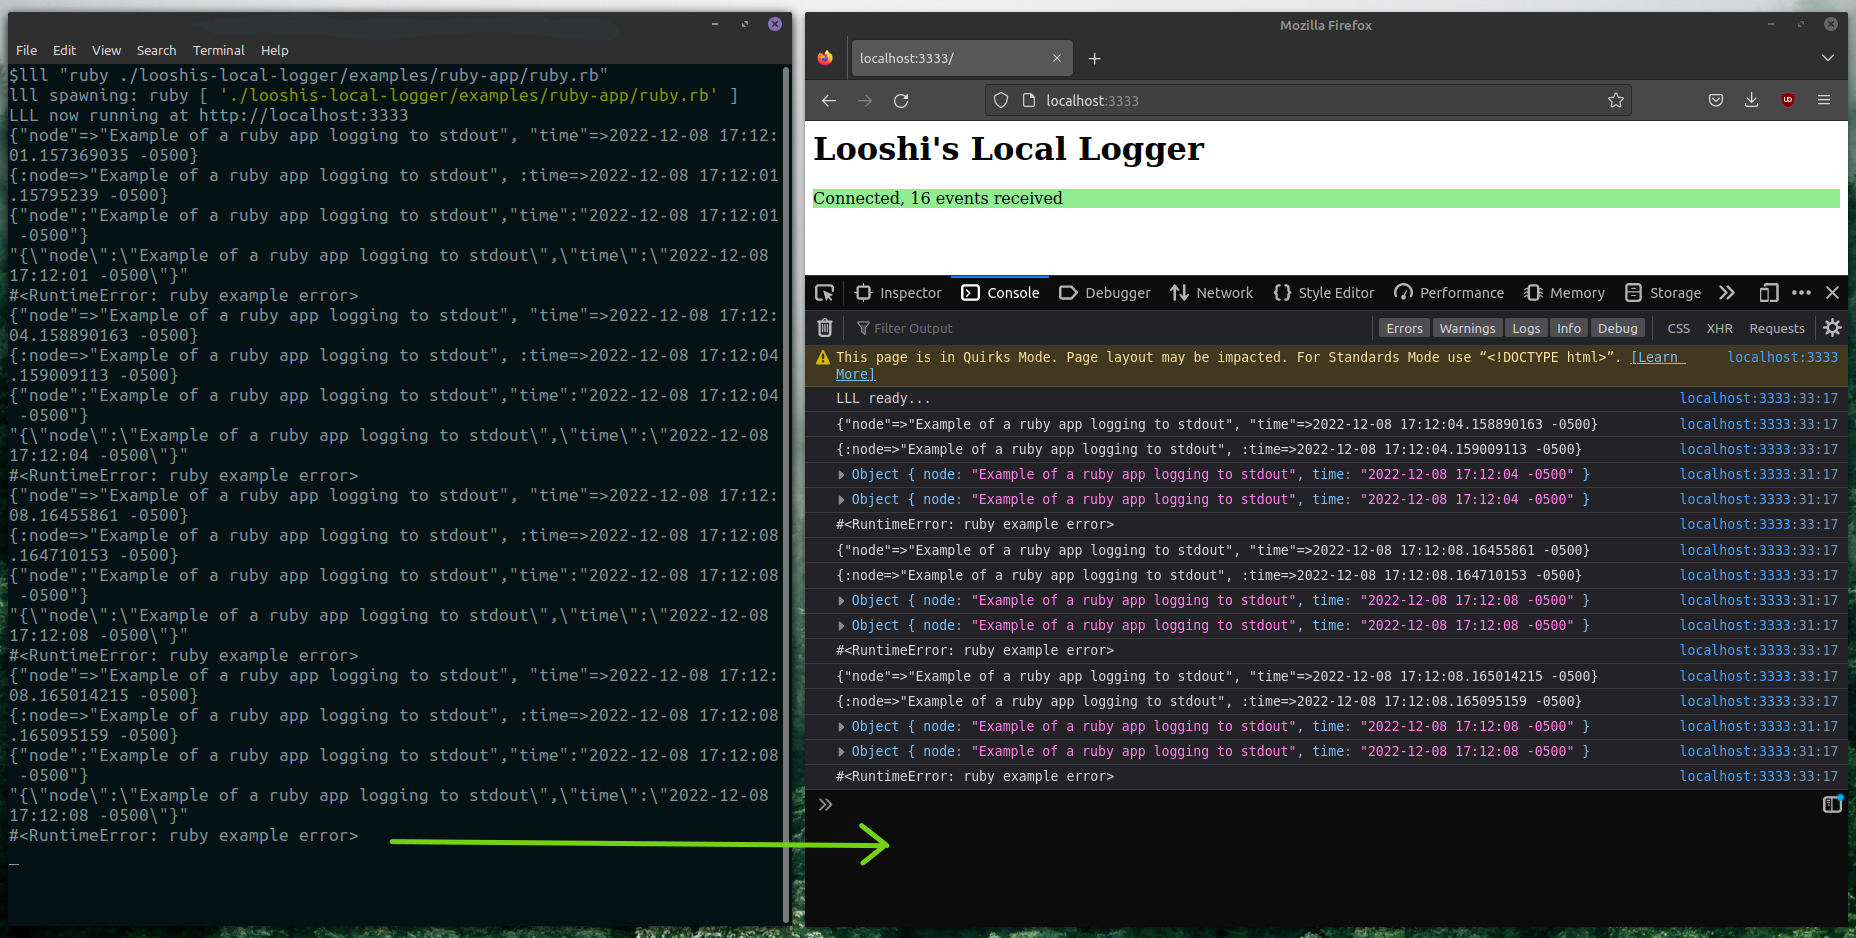
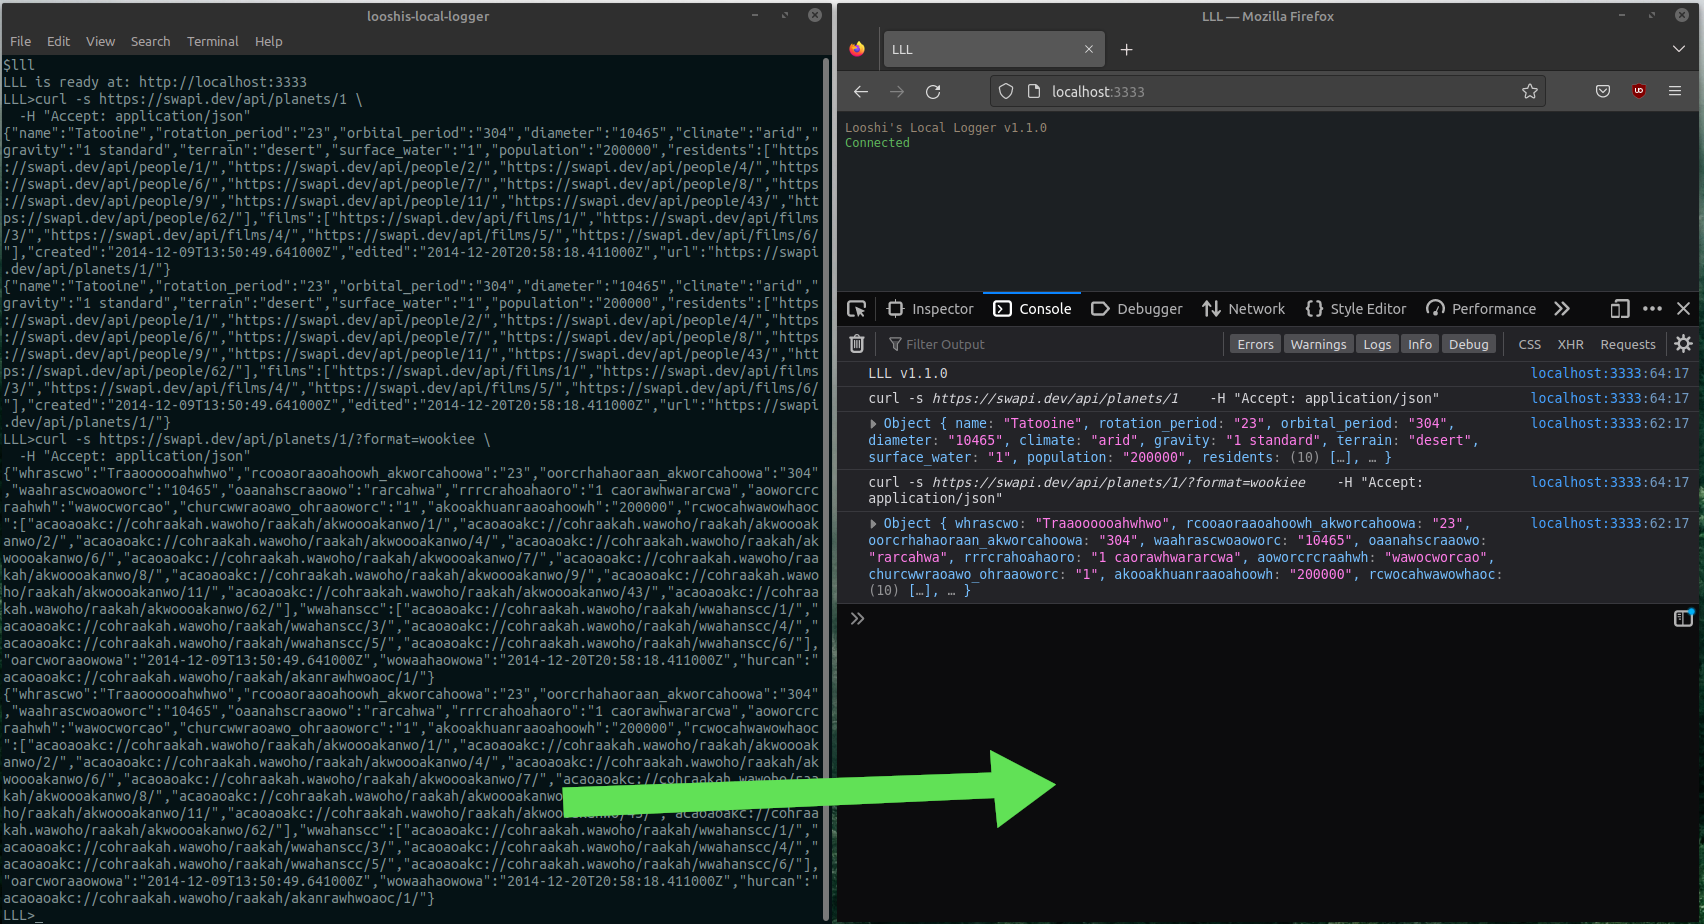
1.1.0 new page style (#2)

diff --git a/src/client.html b/src/client.html
@@ -1,30 +1,59 @@
+<!DOCTYPE html>
 <html>
 
 <head>
   <title>LLL</title>
 </head>
+<style>
+  body {
+    background: #1c2023;
+    font-family: monospace, Arial, Helvetica, sans-serif;
+    font-size: 12px;
+  }
 
-<body style="background: #1c2023; color: #bfb5a9; font-family: Arial, Helvetica, sans-serif;margin:0;">
-  <p id="status"></p>
+  p {
+    margin: 0;
+  }
+
+  a,
+  a:visited,
+  a:active {
+    color: #988874;
+    text-decoration: none;
+  }
+
+  a:hover {
+    color: white;
+  }
+
+</style>
+
+<body>
+  <header>
+    <p>
+      <a href="https://github.com/looshi/looshis-local-logger" referrerpolicy="origin" target="_blank">
+        Looshi's Local Logger v1.1.0
+      </a>
+    </p>
+    <p id="status"></p>
+  </header>
 
   <script>
     const status = document.getElementById('status');
     const es = new EventSource('http://localhost:{{port}}/events');
-    let eCount = 0;
 
     es.addEventListener('open', (message) => {
       status.textContent = "Connected";
-      status.setAttribute('style', "color: lightgreen; border-top: 6px solid lightgreen;");
+      status.setAttribute('style', "color: #60ba5d; ");
     });
 
     es.addEventListener('error', (message) => {
       status.textContent = "Not connected";
-      status.setAttribute('style', "color: orange; border-top: 6px solid orange;");
+      status.setAttribute('style', "color: orange;");
     });
 
     es.addEventListener('message', (message) => {
-      eCount = eCount + 1;
-      status.textContent = `Connected, lines received: ${eCount}`;
+      status.textContent = "Connected";
       try {
         var obj = JSON.parse(message.data);
         if (typeof obj == 'string') {

diff --git a/src/server.js b/src/server.js
@@ -7,7 +7,7 @@ import path from 'path';
 import { fileURLToPath } from 'url';
 const HERE = fileURLToPath(import.meta.url);
 const CLIENT_FILE_PATH = `${path.dirname(HERE)}/client.html`;
-const VERSION = 'LLL v1.0.3';
+const VERSION = 'LLL v1.1.0';
 const port = process.env.PORT || 3333;
 let client;  // allows only one client running at one time
 let rl;
@@ -44,6 +44,7 @@ function onData(data) {
 }
 
 if (process.argv[2]) {
+  // If command was passed, start the command as a subprocess and stream its output.
   const [program, ...args] = process.argv[2].split(' ');
   if (program === "-v" || program === "--version") {
     console.log(VERSION);
@@ -69,6 +70,7 @@ if (process.argv[2]) {
     sendMessage(msg);
   });
 } else {
+  // If no command was passed, start LLL in standalone mode and listen for stdin.
   let input = [];
 
   rl = readline.createInterface({

diff --git a/README.md b/README.md
@@ -5,9 +5,9 @@ Stream terminal output to the browser devtools!
 
 ![browser next to terminal](https://github.com/looshi/looshis-local-logger/blob/main/examples/example.png)
 
-Leverage the devtool's features like the JSON inspector and filtering for your raw terminal output.
+LLL is a command line program which allows you to view terminal output in a browser's devtools.  Use the JSON inspector, filter, and more when viewing your terminal's output.
 
-LLL has no dependencies and is less than 150 lines of code.
+LLL has no dependencies.
 
 ## Install
 ```sh
@@ -16,27 +16,30 @@ npm i -g looshis-local-logger
 
 ## How To Use
 
-Send stdout to the browser:
+Start an application from LLL:
+
+```sh
+lll "node ./examples/node-app/index.js"
+```
+
+OR start LLL in standalone mode:
 
 ```sh
 lll
-# Open browser at http://localhost:3333, open devtools.
-# Make a GET request for JSON of the planet tatooine ( translated to wookiee ):
-LLL> curl -s https://swapi.dev/api/planets/1/?format=wookiee \
-  -H "Accept: application/json"
+# LLL> Enter Commands
 ```
 
-Send an application's stdout to the browser:
-
-```sh
-lll "node ./examples/node-app/index"
-# Open browser at http://localhost:3333, open devtools.
-```
+After LLL has started, open your browser and navigate to http://localhost:3333, open devtools and click on the console tab.
 
 CTRL+C to exit.
 
 ### More Examples
 ```sh
+# Start lll in standalone mode and enter a curl command
+lll
+curl -s https://swapi.dev/api/planets/1 \
+  -H "Accept: application/json"
+
 # Run npm script:
 lll "npm --prefix ./examples/node-app run start"
 # Open browser at http://localhost:3333, open devtools.
